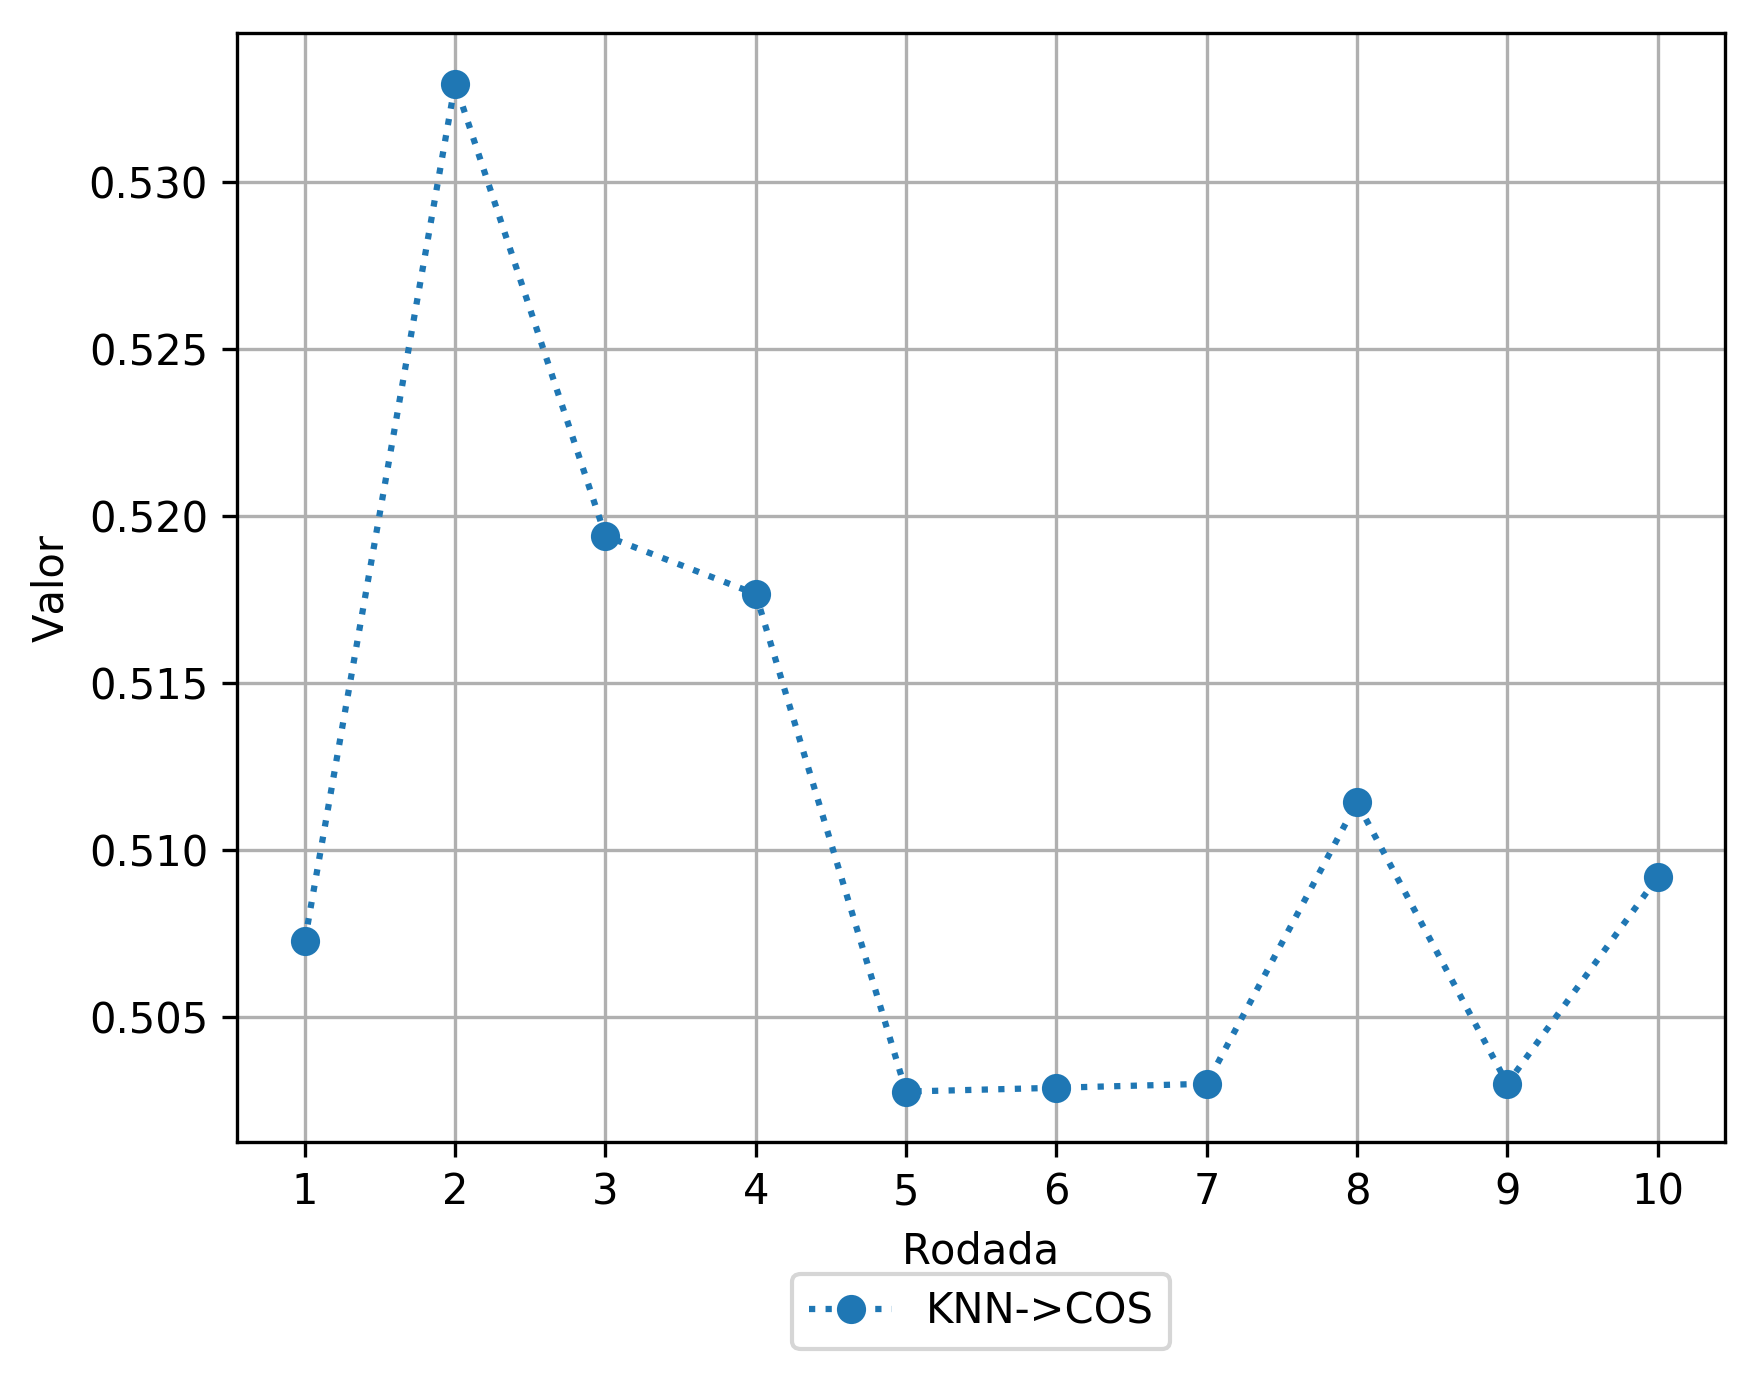
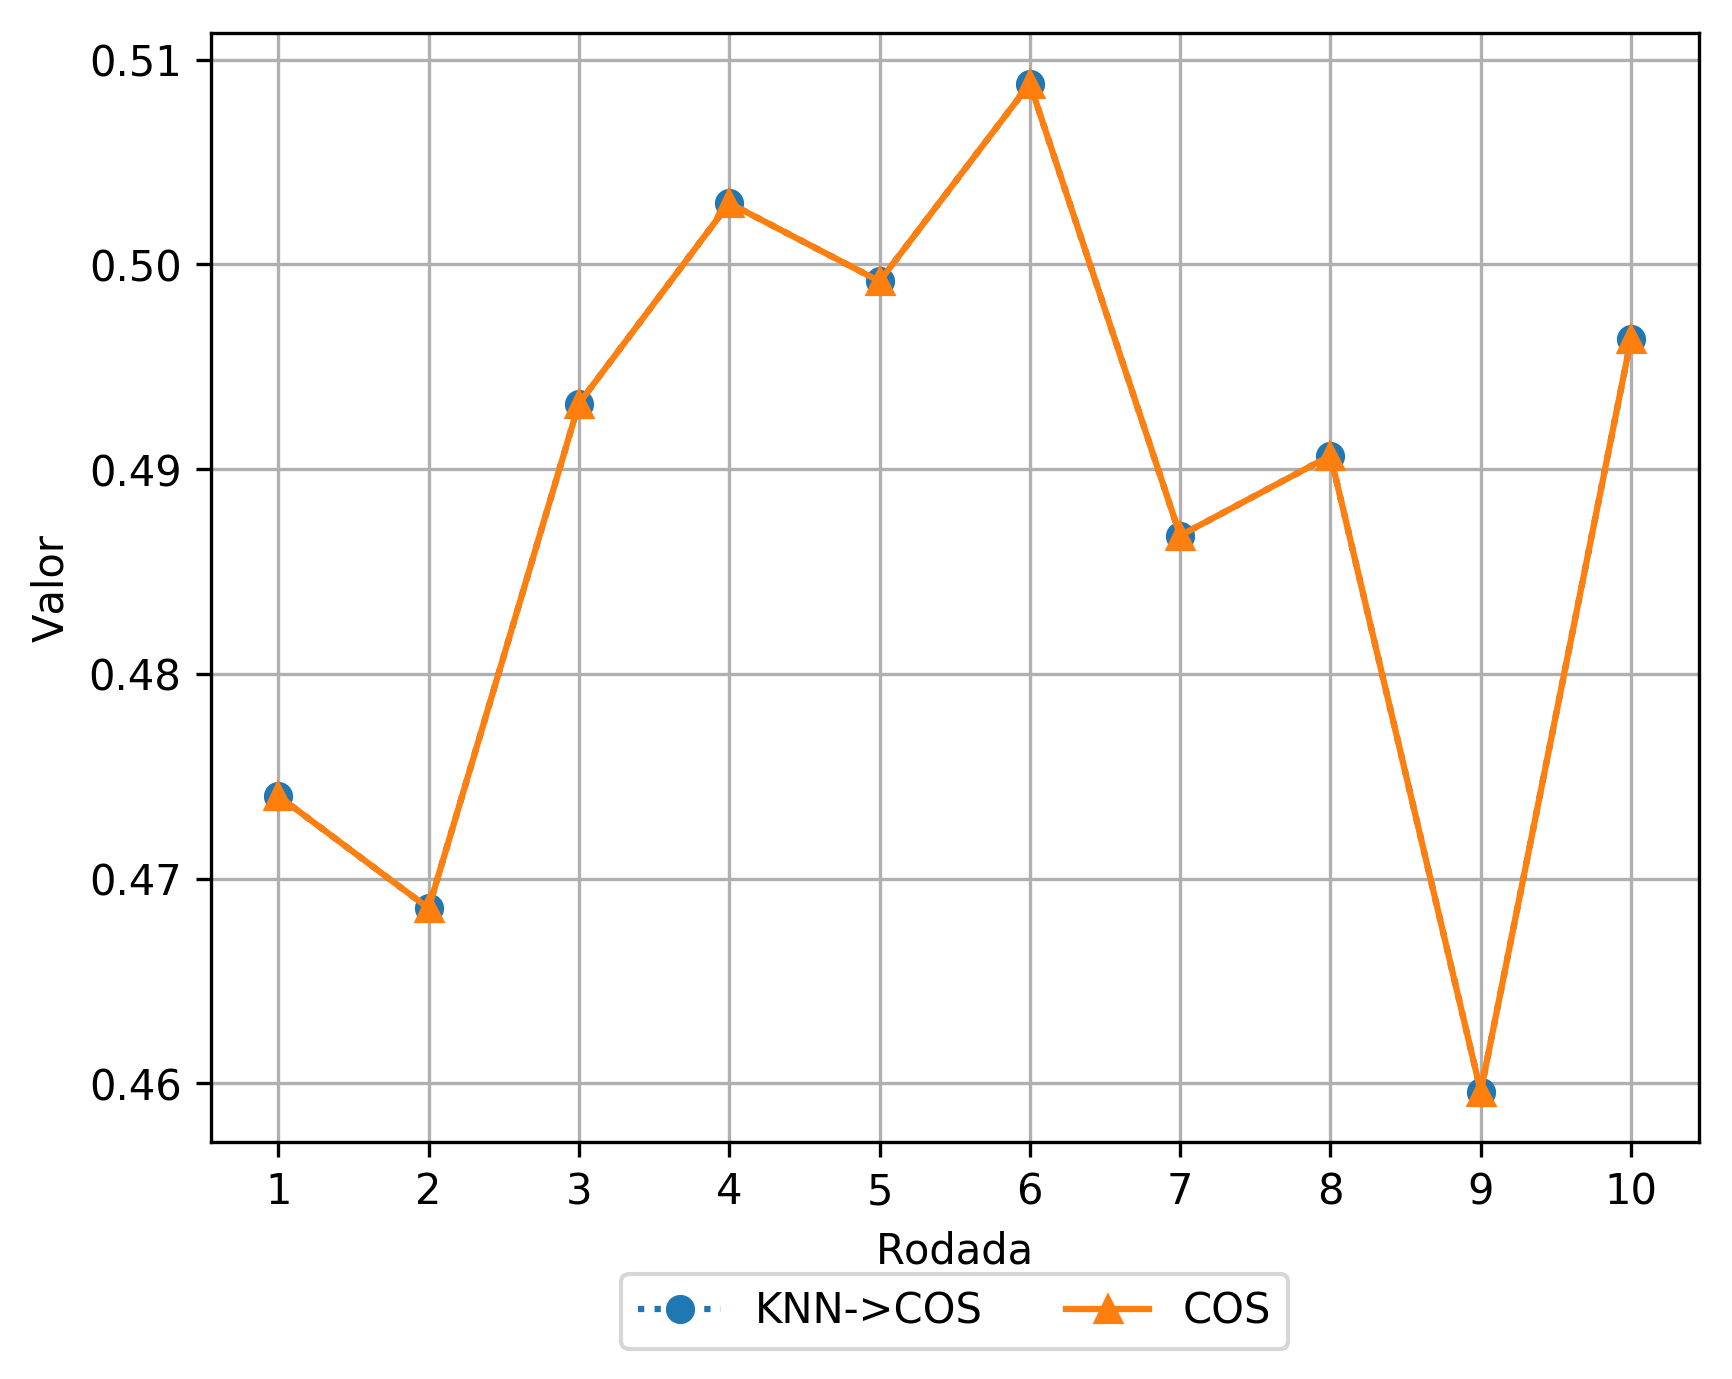
user average e novos graficos

diff --git a/src/machine_learning/sklearn_config.py b/src/machine_learning/sklearn_config.py
@@ -1,3 +1,5 @@
+import logging
+
 import numpy as np
 import pandas as pd
 from sklearn.linear_model import Perceptron
@@ -42,6 +44,8 @@ class MachineAlgorithms:
         test_results['original_like'] = y_test
         positive_pred = test_results[test_results['pred_like'] == True]
         candidate_songs = x_test.loc[positive_pred.index.values.tolist()]
+        if len(candidate_songs) == 0:
+            logging.info("User has no candidate songs!")
         user_set = pd.concat([x_train, candidate_songs])
         cos = pd.DataFrame(data=np.matrix(cosine_similarity(X=user_set)), columns=user_set.index.tolist(),
                            index=user_set.index.tolist())
@@ -89,6 +93,22 @@ class MachineAlgorithms:
         clf = Perceptron(n_jobs=GlobalVariable.processor_number)
         clf.fit(x_train, y_train)
         return clf
+
+    @staticmethod
+    def user_average(x_train_data, x_test_data, y_test_label, run):
+        test_df = pd.DataFrame(data=[], index=x_test_data.index.values.tolist())
+        test_df['like'] = y_test_label
+        user_set = pd.concat([x_train_data, x_test_data])
+        cos = pd.DataFrame(data=np.matrix(cosine_similarity(X=user_set)), columns=user_set.index.tolist(),
+                           index=user_set.index.tolist())
+        user_list = UserAverageController.start_ranking(similarity_data_df=cos,
+                                                        user_model_ids=x_train_data.index.values.tolist(),
+                                                        song_model_ids=x_test_data.index.values.tolist())
+        user_results_df = pd.concat([user_list, test_df], axis=1, sort=False, join='inner')
+        print(len(user_results_df))
+        return pd.DataFrame(
+            data=[[run, 'COS', 'map', MAPController.get_ap_from_list(user_results_df['like'].tolist())]],
+            columns=GlobalVariable.results_column_name)
 
     @staticmethod
     def evaluate(y_pred, y_test):
@@ -169,4 +189,5 @@ class MachineAlgorithms:
     @staticmethod
     def main(x_train, x_test, y_train, y_test, run):
         result_df = MachineAlgorithms.train_knn(x_train, x_test, y_train, y_test, run)
-        return result_df
+        return pd.concat([result_df, MachineAlgorithms.user_average(x_train_data=x_train, x_test_data=x_test,
+                                                                    y_test_label=y_test, run=run)])

diff --git a/src/kemures/recommenders/UserAverage/user_average_controller.py b/src/kemures/recommenders/UserAverage/user_average_controller.py
@@ -18,6 +18,7 @@ class UserAverageController:
             similarity = float(sum(song_values)) / float(
                 len(user_model_ids))
             if similarity == 0.0:
+                recommendation_list[song_id] = [0]
                 continue
             recommendation_list[song_id] = [similarity]
         user_recommendations_df = pd.DataFrame.from_dict(data=dict(recommendation_list), orient='index',

diff --git a/src/globalVariable.py b/src/globalVariable.py
@@ -13,7 +13,7 @@ class GlobalVariable:
     test_set_size = 0.20
     path_logs = 'logs/logging.json'
     k_neighbors = 3
-    song_sample_number = 50000
+    song_sample_number = 30000
     sample_random_state = 50
     results_column_name = ['round', 'algorithm', 'metric', 'value']
     GRAPH_STYLE = [':', '-', '--', '--']
